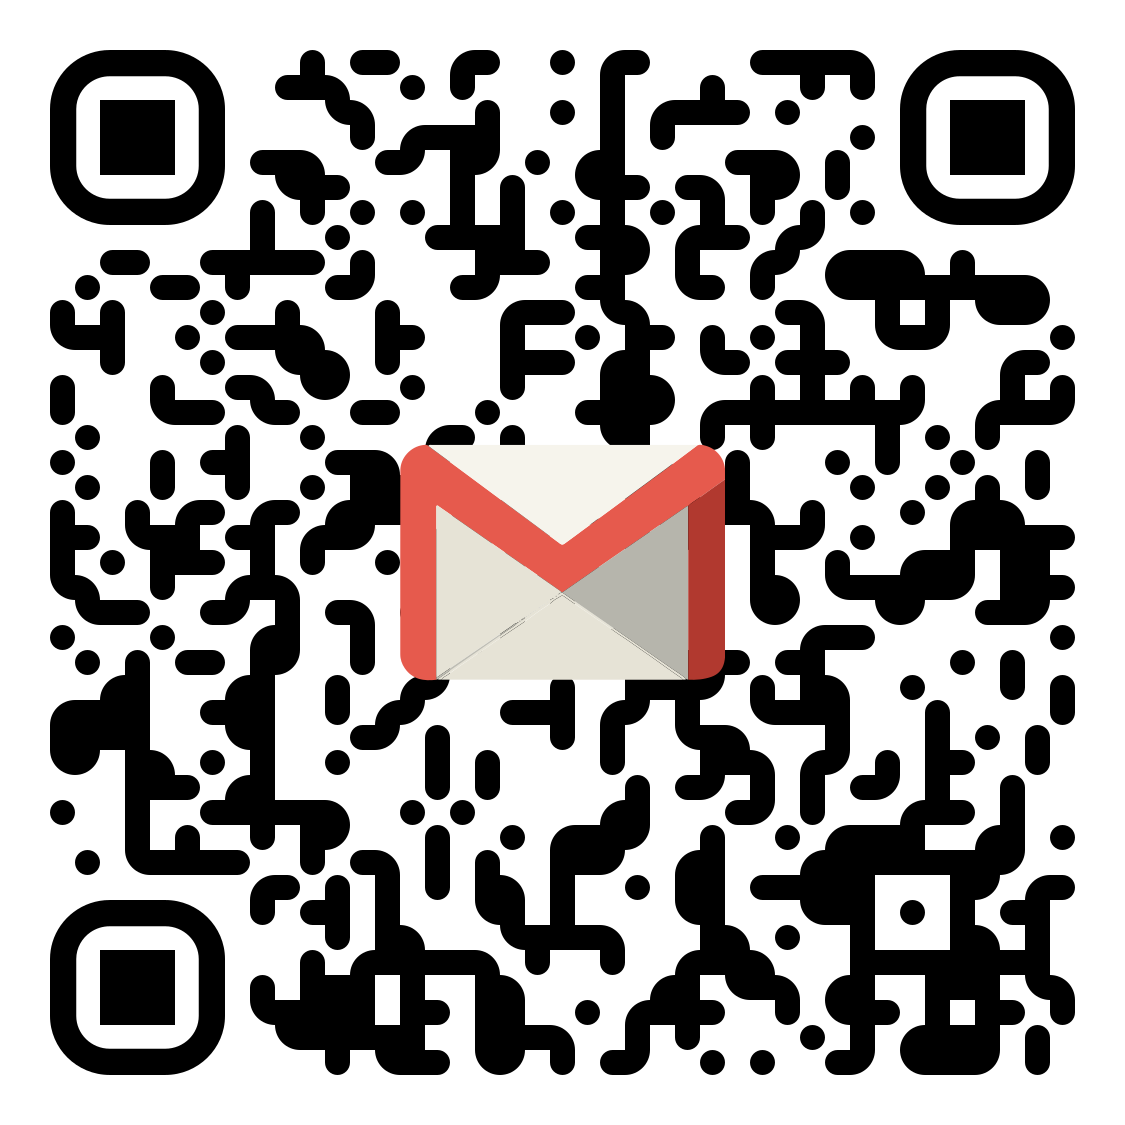
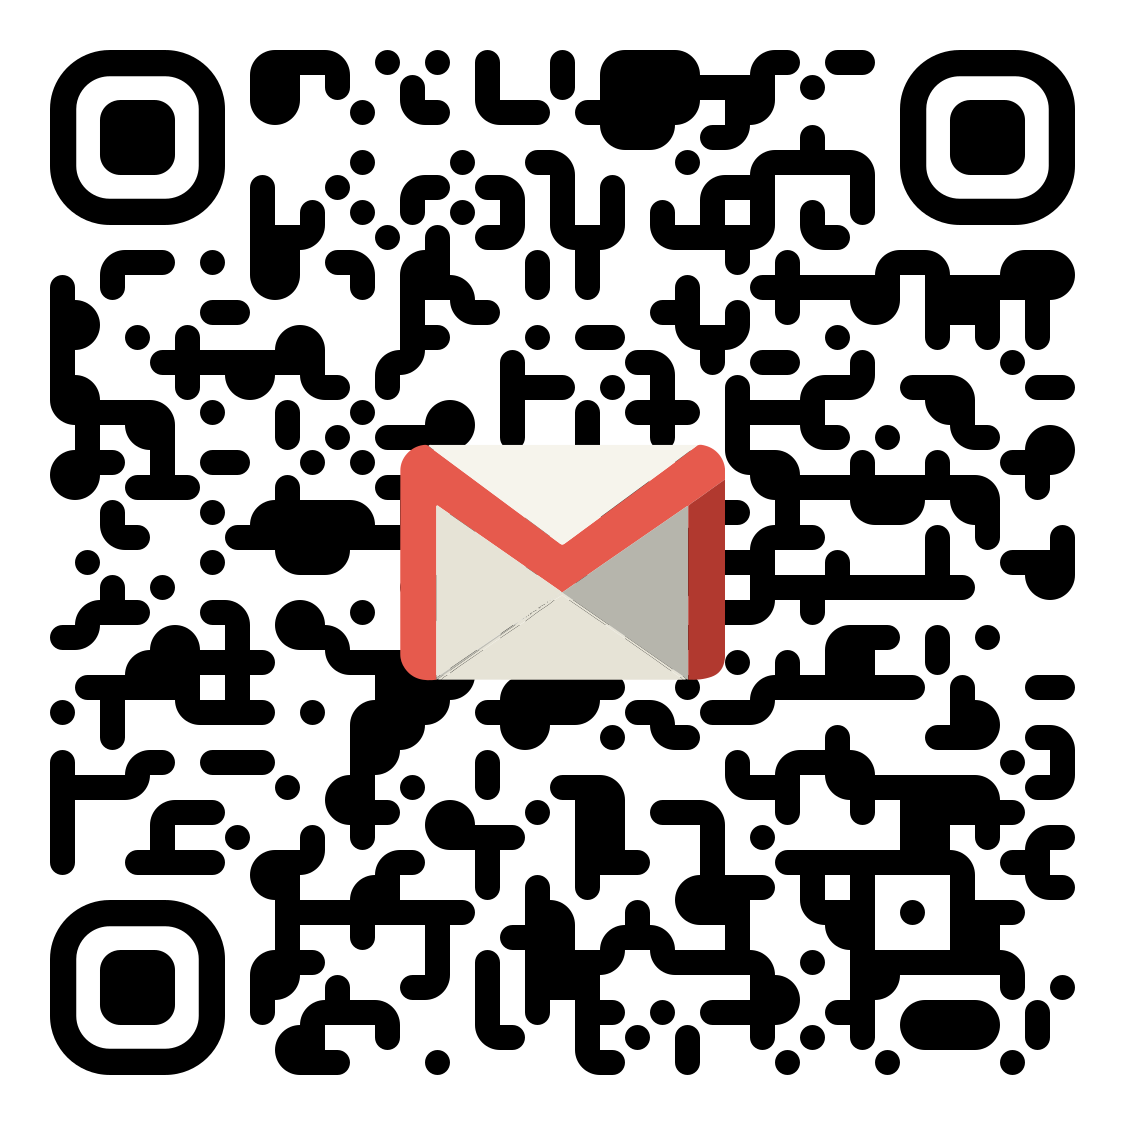
.

diff --git a/index.html b/index.html
@@ -67,7 +67,7 @@ body {
 
 <br>
 
-<p>Hello! My name is Kate Slinchenkova and I am a senior getting a double major at Cornell in Biology and Chemistry. I grew up in Dnipro, Ukraine before moving to America in 2008, leaving the majority of my family back in Ukraine. After moving to America, I have met my boyfriend, Andrew Smolensky, who’s family is also from Dnipro. He is currently an Electrical Engineering student at Purdue University and is the mastermind behind the website design. Although  we both used to visit often, now we will not be able to return due to the current attacks. To help, we have spent most of our free time and date nights helping our loved ones and their efforts in supporting the community the only way we can from so far away: financially. </p>
+<p>Thank you for your interest in supporting our friends and family in their efforts in Ukraine! Please make your way to the tabs in the upper menu for more information. You will find information about who I am transferring donations to in the <a href="aboutpeople.html">"People"</a> tab and you will find pictures and receipts of purchases in the <a href="updates.html">“Updates”</a> tab. Please feel free to contact me with any questions. Below, you will find some more information about who I am and why my boyfriend and I started this fundraiser. For those who cannot tolerate blood, the updates I post largely avoid any gruesome photos and seek to demonstrate the good that is accomplished and should be fairly safe for viewing.</p>
 
 <br>
 <div class="container">
@@ -114,10 +114,9 @@ body {
 </div>
 </div>
 
-<p>Thank you for your interest in supporting our friends and family in their efforts in Ukraine! Please make your way to the tabs in the upper menu for more information. You will find information about who I am transferring donations to in the <a href="aboutpeople.html">“People”</a> tab and you will find pictures and receipts of purchases in the <a href="updates.html">“Updates”</a> tab. Please feel free to contact me with any questions. 
-</p>
+<p>My name is Kateryna Slinchenkova and I am a recent graduate from Cornell University, currently living with my parents in Westchester, NY. I grew up in Dnipro, Ukraine before moving to America in 2008, leaving the majority of my family back in Ukraine. After moving to America, I met my boyfriend, Andrew Smolensky, who’s family is also from Dnipro. He is currently an Electrical Engineering student at Purdue University and is the mastermind behind the website design. Although we both used to visit often, now we will not be able to return due to the current attacks. When the war began, we did not know what to do but my grandpa, an anesthesiologist in an ICU in Dnipro, mentioned how they were very low on supplies and funds. So, this fundraiser began to help the Dnipro 6th City Hospital to aid my grandpa’s department.. Along the way, I noticed a family friend and my personal friend spending all of their savings to help refugees and expanded our donations to also help them provide as much aid as possible. We support the community the only way we can from so far away: financially. Even if you cannot donate, please share this website or my contact information with friends and family who may be able to help. Thank you to everyone standing with Ukraine during this terrifying time! We are very grateful to all the donors and friends without whom we would be helpless. We would also like to thank Nova Ukraine for a recent donation in collaboration with Scholars for Ukraine (7/13/22) who reached out to us after seeing some media posts about the recent financial drought for our efforts.</p>
 
-<p>Note: the rest of the site is written from Kate's perspective.</p>
+<p>Note: The website is written from Kate’s perspective.</p>
 
 </div>
 

diff --git a/donate.html b/donate.html
@@ -104,7 +104,7 @@ body {
   </div>
   
   <div class="col-md-2">
-    <div style="text-align:center;"><img border="0" src="https://www.coolfundraisingideas.net/thermometer/thermometer.php?currency=dollar&goal=40000&raised=24203&color=blue&size=medium"></div>
+    <div style="text-align:center;"><img border="0" src="https://www.coolfundraisingideas.net/thermometer/thermometer.php?currency=dollar&goal=40000&raised=27313&color=blue&size=medium"></div>
   </div>
   
 </div>

diff --git a/contact.html b/contact.html
@@ -61,7 +61,7 @@ body {
   <div class="col-md-4">
     <div class="thumbnail">
     <div class="caption center text-center">
-          <p>E-mail: <a href = "mailto:ks928@cornell.edu?subject=Dnipro Fund Inquiry">ks928@cornell.edu</a></p>
+          <p>E-mail: <a href = "mailto:slinchek@gmail.com?subject=Dnipro Fund Inquiry">slinchek@gmail.com</a></p>
         </div>
         <img src="graphics/email.png" alt="qr2" style="width:100%">
     </div>
